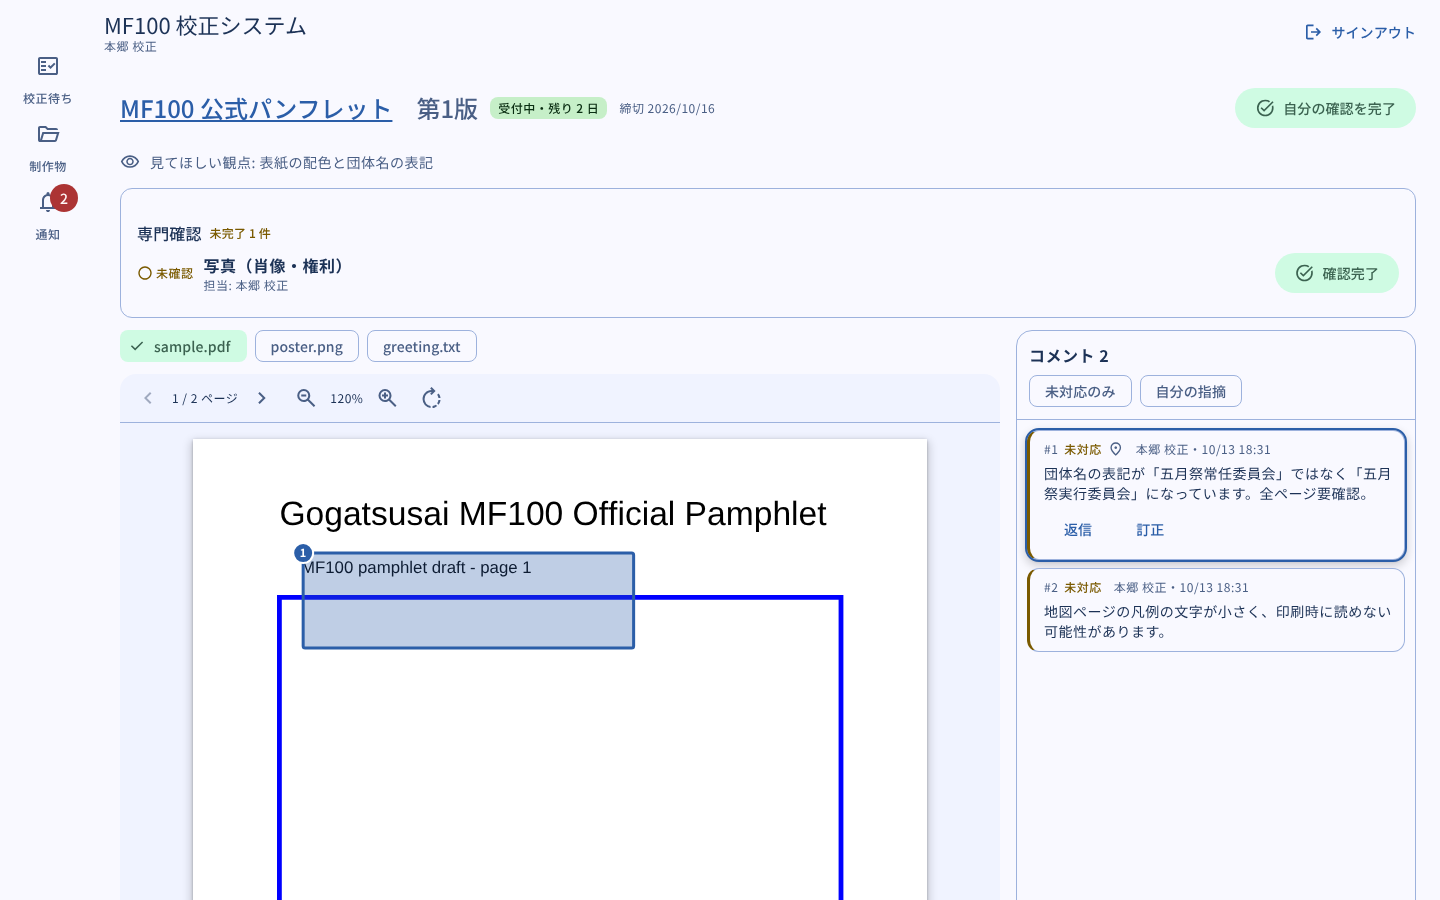
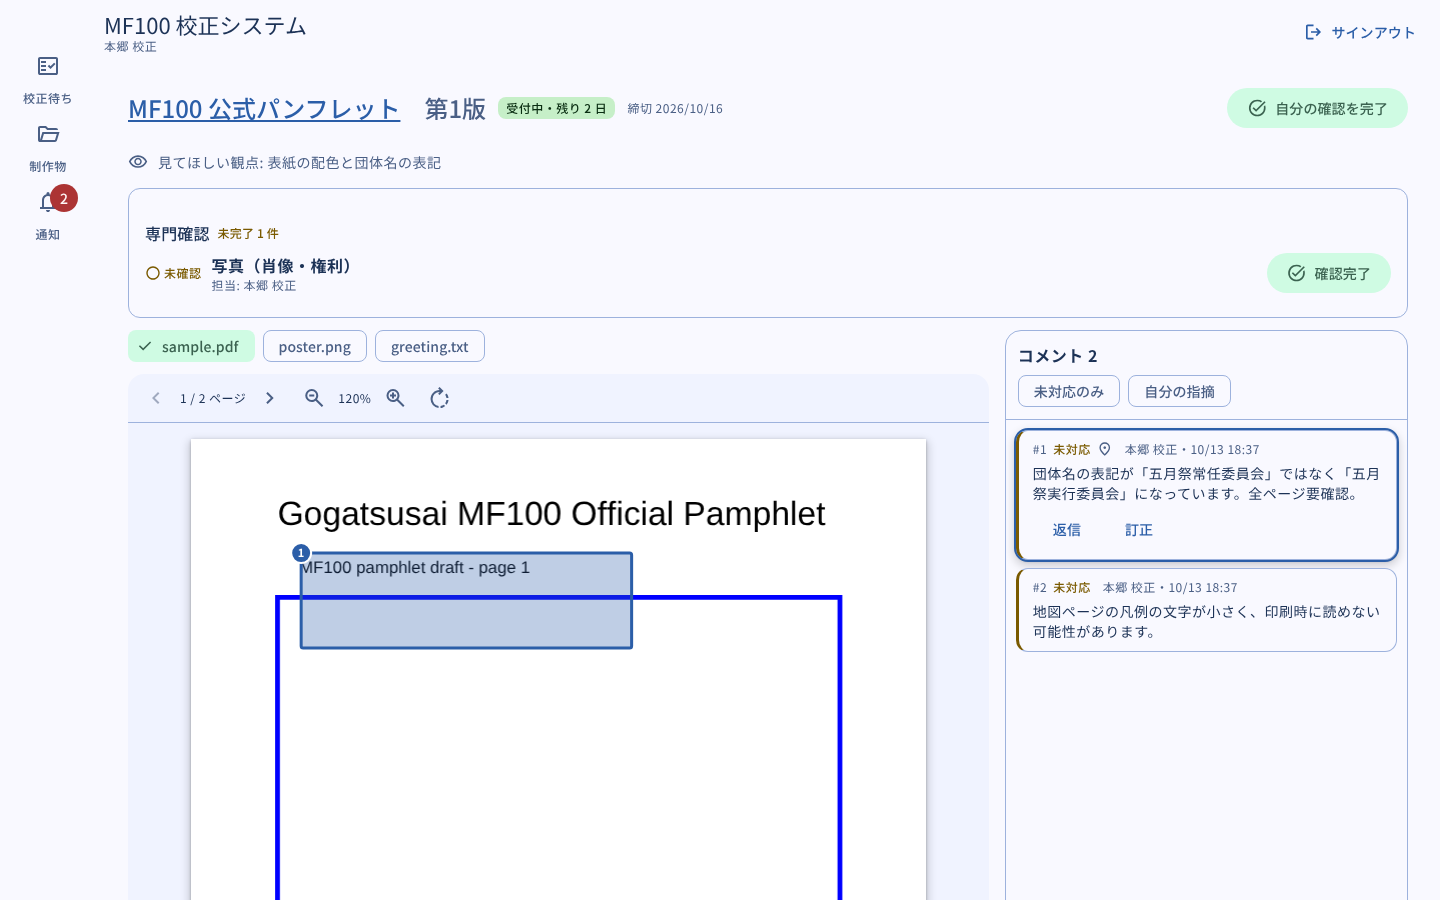
web: 画面幅いっぱいに使う（max-width 撤廃、フォームは幅に応じて多列、コメント列は clamp）
Claude-Session: https://claude.ai/code/session_01X9TznCihnnBEBhcMh6UZ9t

diff --git a/apps/web/src/styles.css b/apps/web/src/styles.css
@@ -169,8 +169,7 @@ m3e-search-bar {
   min-width: 0;
 }
 .shell__content {
-  padding: 8px 24px 48px;
-  max-width: 1400px;
+  padding: 8px 32px 48px;
   width: 100%;
 }
 .shell__bar {
@@ -456,7 +455,15 @@ m3e-search-bar {
 .form {
   display: grid;
   gap: 16px;
-  max-width: 760px;
+  grid-template-columns: repeat(auto-fit, minmax(360px, 1fr));
+}
+.form > .grid-2,
+.form > .form__actions,
+.form > details,
+.form > .alert,
+.form > .file-drop,
+.form > fieldset {
+  grid-column: 1 / -1;
 }
 .form__actions {
   display: flex;
@@ -533,7 +540,7 @@ m3e-search-bar {
 /* ---------- 校正ワークスペース（U-05）: 左ビューア / 右コメント */
 .workspace {
   display: grid;
-  grid-template-columns: minmax(0, 1fr) 400px;
+  grid-template-columns: minmax(0, 1fr) clamp(380px, 28vw, 560px);
   gap: 16px;
   height: calc(100vh - 150px);
   min-height: 480px;
@@ -857,7 +864,7 @@ m3e-search-bar {
 .text-viewer__body {
   margin: 0;
   padding: 24px 28px;
-  width: min(100%, 820px);
+  width: 100%;
   min-height: 300px;
   background: #fff;
   color: #191c20;
